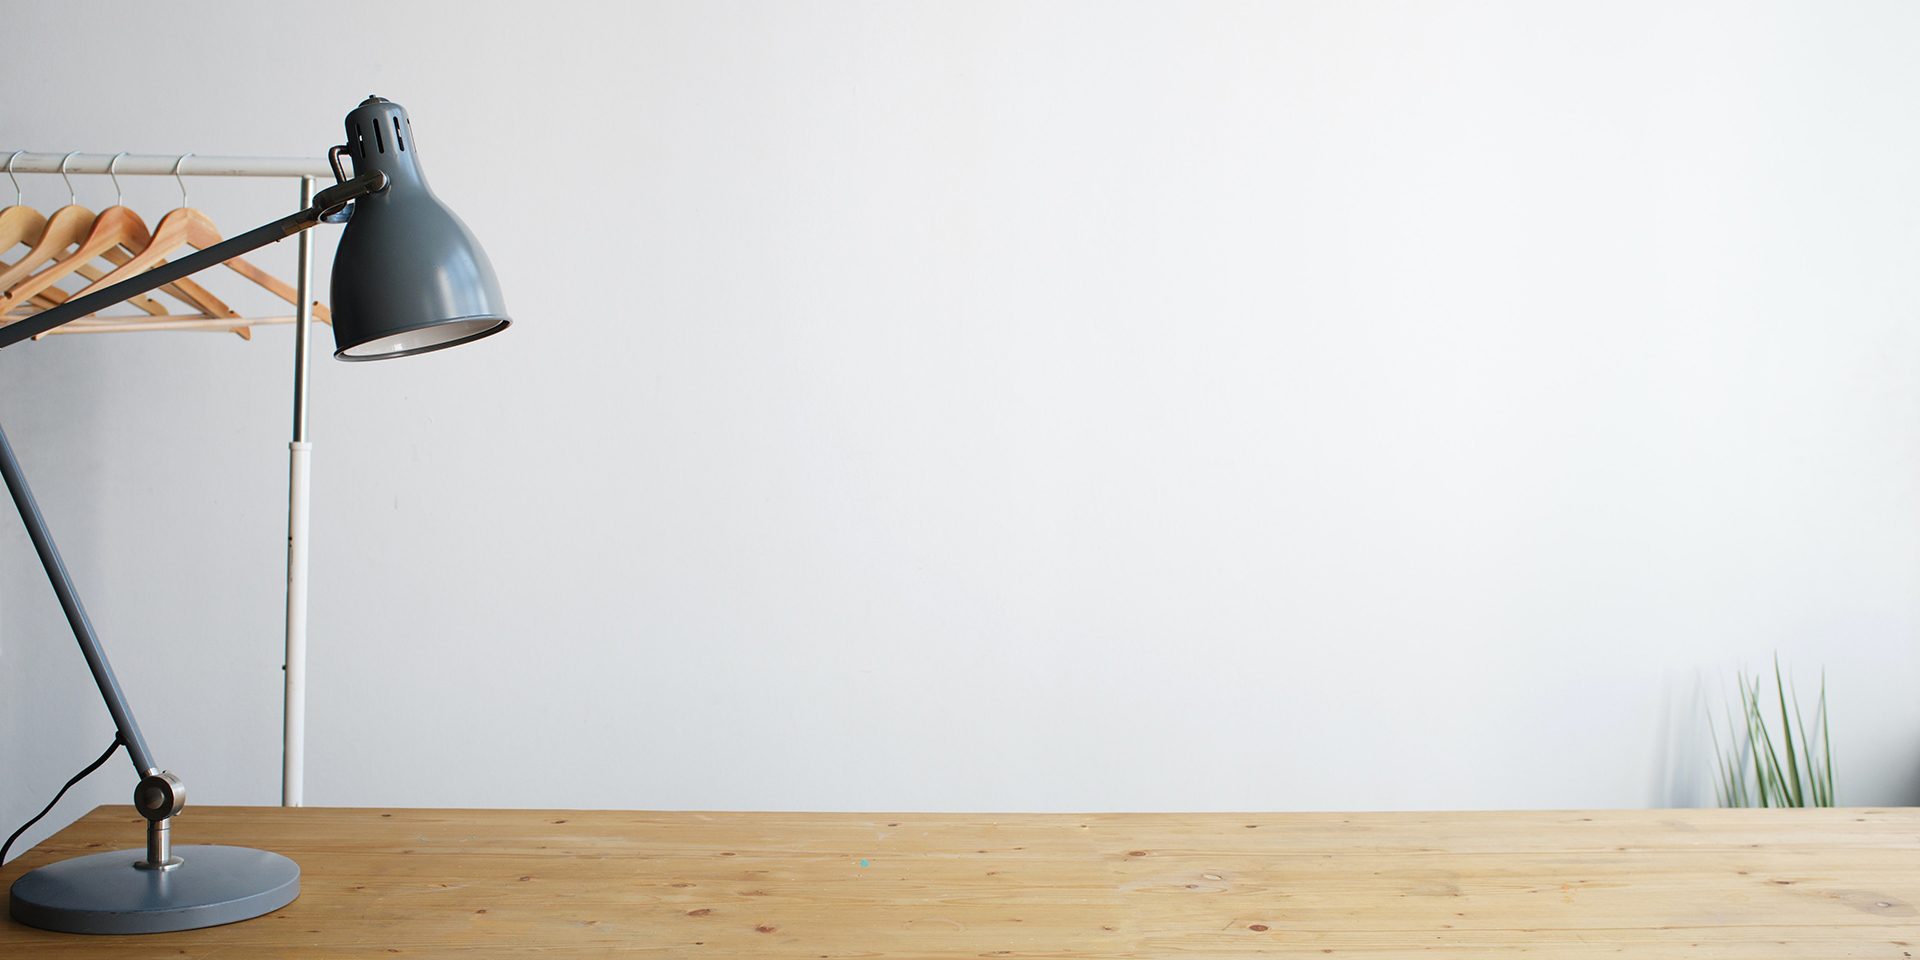
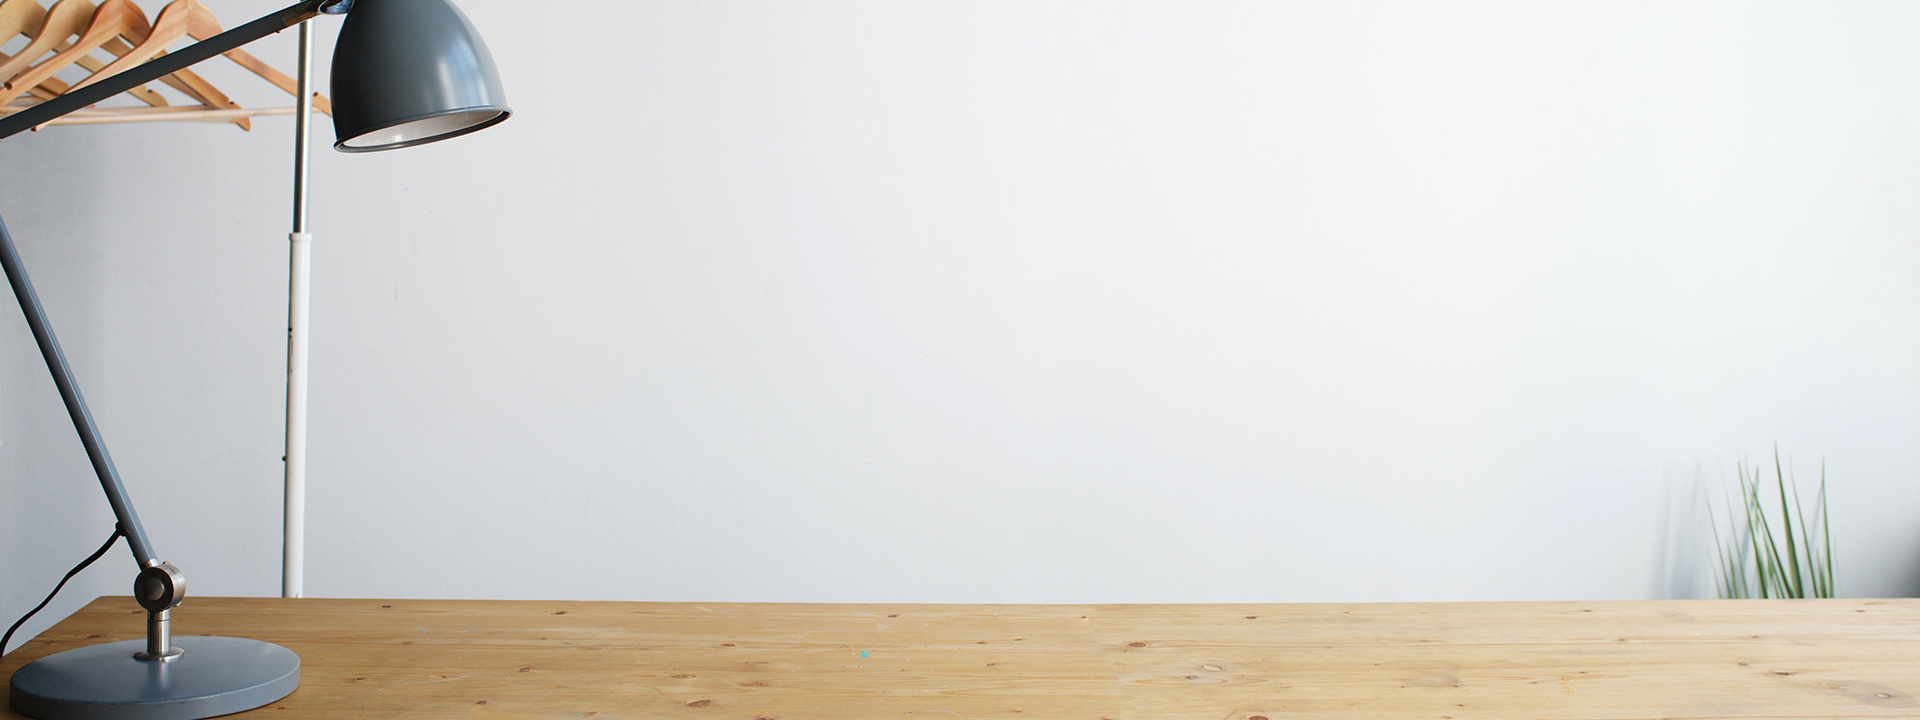
.

diff --git a/bootstrap-this/index.html b/bootstrap-this/index.html
@@ -46,52 +46,30 @@
     <main>
         <!-- mb-5 means the margin  -->
         <section class="mb-5">
-            <div id="carouselExampleCaptions" class="carousel slide" data-bs-ride="carousel">
-                <div class="carousel-indicators">
-                    <button type="button" data-bs-target="#carouselExampleCaptions" data-bs-slide-to="0" class="active"
-                        aria-current="true" aria-label="Slide 1"></button>
-                    <button type="button" data-bs-target="#carouselExampleCaptions" data-bs-slide-to="1"
-                        aria-label="Slide 2"></button>
-                    <button type="button" data-bs-target="#carouselExampleCaptions" data-bs-slide-to="2"
-                        aria-label="Slide 3"></button>
-                </div>
+            <div id="carouselExampleControls" class="carousel slide" data-bs-ride="carousel">
                 <div class="carousel-inner">
                     <div class="carousel-item active">
-                        <img src="images/banner1.jpg" class="d-block w-100" alt="desk">
-                        <div class="carousel-caption d-none d-md-block">
-                            <h5>Bootstrap</h5>
-                            <p>Bootstrap can save your time!</p>
-                        </div>
+                        <img src="images/banner1.jpg" class="d-block w-100" data-bs-toggle="tooltip"
+                            data-bs-placement="bottom" title="Bootstrap can save your time" alt="desk">
                     </div>
                     <div class="carousel-item">
                         <img src="images/banner2.jpg" class="d-block w-100" alt="desk">
-                        <div class="carousel-caption d-none d-md-block">
-                            <h5>Bootstrap</h5>
-                            <p>Bootstrap is open-resource code resource.</p>
-                        </div>
                     </div>
                     <div class="carousel-item">
-                        <img src="images/banner3.jpg" class="d-block w-100" alt="office">
-                        <div class="carousel-caption d-none d-md-block">
-                            <h5>Bootstrap</h5>
-                            <p>Bootstrap can give you more ideas.</p>
-                        </div>
+                        <img src="images/banner3.jpg" class="d-block w-100" alt="...">
                     </div>
                 </div>
-                <button class="carousel-control-prev" type="button" data-bs-target="#carouselExampleCaptions"
+                <button class="carousel-control-prev" type="button" data-bs-target="#carouselExampleControls"
                     data-bs-slide="prev">
                     <span class="carousel-control-prev-icon" aria-hidden="true"></span>
                     <span class="visually-hidden">Previous</span>
                 </button>
-                <button class="carousel-control-next" type="button" data-bs-target="#carouselExampleCaptions"
+                <button class="carousel-control-next" type="button" data-bs-target="#carouselExampleControls"
                     data-bs-slide="next">
                     <span class="carousel-control-next-icon" aria-hidden="true"></span>
                     <span class="visually-hidden">Next</span>
                 </button>
             </div>
-        </section>
-
-        <section id="about">
             <h1 class="text-center py-5">About</h1>
             <h2 class="text-center py-5">Introduction</h2>
             <p class="text-center my-2 px-2  col-8 offset-2 offset-md-3 col-md-6 offset-lg-3 col-lg-6">Bootstrap is a
@@ -99,13 +77,30 @@
                 quickly to design web pages with a good layout
                 and functions. Bootstrap has a wide variety of preset styles, which meets all the effects of creating a
                 website.</p>
-            <h2 class="text-center py-5">History</h2>
-            <p class="text-center my-2 px-2  col-8 offset-2 offset-md-3 col-md-6 offset-lg-3 col-lg-6">
-                Bootstrap, originally named Twitter Blueprint, was developed by Mark Otto and Jacob Thornton at Twitter.
-                They build is as a framework to encourage consistency across internal tools.The development of Bootstrap
-                has gone through 5 versions. Bootstrap 5 was officially released on May 5, 2021. It has undergone many
-                improvements and adjustments.
-            </p>
+        </section>
+
+        <section id="about" class="mx-auto col-10 col-md-10 col-lg-10">
+            <div class="row flex-lg-row-reverse align-items-center g-5 py-5">
+                <div class="col-10 col-sm-10 col-lg-6 ">
+                    <img src="images/picture2.jpg" class="d-block mx-lg-auto img-fluid mx-sm-auto" alt="person"
+                        loading="lazy">
+                </div>
+                <div class="col-lg-6">
+                    <h1 class="display-5 fw-bold lh-1 mb-3">History</h1>
+                    <p class="lead">Bootstrap, originally named Twitter Blueprint, was developed by Mark Otto and Jacob
+                        Thornton at Twitter.
+                        They build is as a framework to encourage consistency across internal tools.The development of
+                        Bootstrap
+                        has gone through 5 versions. Bootstrap 5 was officially released on May 5, 2021. It has
+                        undergone many
+                        improvements and adjustments.</p>
+                    <div class="d-grid gap-2 d-md-flex justify-content-md-start">
+                        <button type="button" class="btn btn-dark btn-lg px-4 me-md-2">Read more</button>
+                    </div>
+                </div>
+            </div>
+
+
         </section>
         <section id="features" class="my-4">
             <h1 class="text-center py-5">
@@ -119,6 +114,10 @@
                             <h5 class="card-title">Open resource</h5>
                             <p class="card-text">Bootstrap is an open-code resource that can be used for free so that
                                 everyone can participate in adjustment and development.</p>
+                            <button type="button" class="btn btn-dark btn-lg px-4 me-md-2" data-bs-toggle="tooltip"
+                                data-bs-html="true" title="learn more">
+                                Read more
+                            </button>
 
                         </div>
                     </div>
@@ -129,7 +128,12 @@
                         <div class="card-body">
                             <h5 class="card-title">Mobile First</h5>
                             <p class="card-text">The developer considers mobile-first
-                                so that the user's design is more adapted to the mobile interface.</p>
+                                so that the user's design is more adapted to the mobile interface.
+                            </p>
+                            <button type="button" class="btn btn-dark btn-lg px-4 me-md-2" data-bs-toggle="tooltip"
+                            data-bs-html="true" title="learn more">
+                            Read more
+                        </button>
                         </div>
                     </div>
                 </div>
@@ -141,6 +145,10 @@
                             <p class="card-text">Bootstrap has a rich library of elements, allowing users to call and
                                 adjust
                                 quickly. And these elements are responsive.</p>
+                                <button type="button" class="btn btn-dark btn-lg px-4 me-md-2" data-bs-toggle="tooltip"
+                                data-bs-html="true" title="learn more">
+                                Read more
+                            </button>
                         </div>
                     </div>
                 </div>
@@ -160,6 +168,10 @@
                             <h5 class="card-title">Buttons</h5>
                             <p class="card-text">Bootstrap's custom buttons have many looks, with many functions. In
                                 addition, the user can use and adjust the style of the controller.</p>
+                                <button type="button" class="btn btn-dark btn-lg px-4 me-md-2" data-bs-toggle="tooltip"
+                                data-bs-html="true" title="learn more">
+                                Read more
+                            </button>
                         </div>
                     </div>
                 </div>
@@ -170,6 +182,10 @@
                             <h5 class="card-title">Cards</h5>
                             <p class="card-text">Bootstrap's cards provide a responsive container, which can change
                                 different styles and give users many choices.</p>
+                                <button type="button" class="btn btn-dark btn-lg px-4 me-md-2" data-bs-toggle="tooltip"
+                                data-bs-html="true" title="learn more">
+                                Read more
+                            </button>
                         </div>
                     </div>
                 </div>
@@ -180,6 +196,10 @@
                             <h5 class="card-title">Carousel</h5>
                             <p class="card-text">Carousel is a slideshow component, which can conveniently provide users
                                 with the banner design on the web page.</p>
+                                <button type="button" class="btn btn-dark btn-lg px-4 me-md-2" data-bs-toggle="tooltip"
+                                data-bs-html="true" title="learn more">
+                                Read more
+                            </button>
                         </div>
                     </div>
                 </div>
@@ -210,7 +230,7 @@
                     <small class="text-muted mx-auto">Welcome to contact us</small>
                 </form>
             </div>
-            
+
 
         </section>
 
